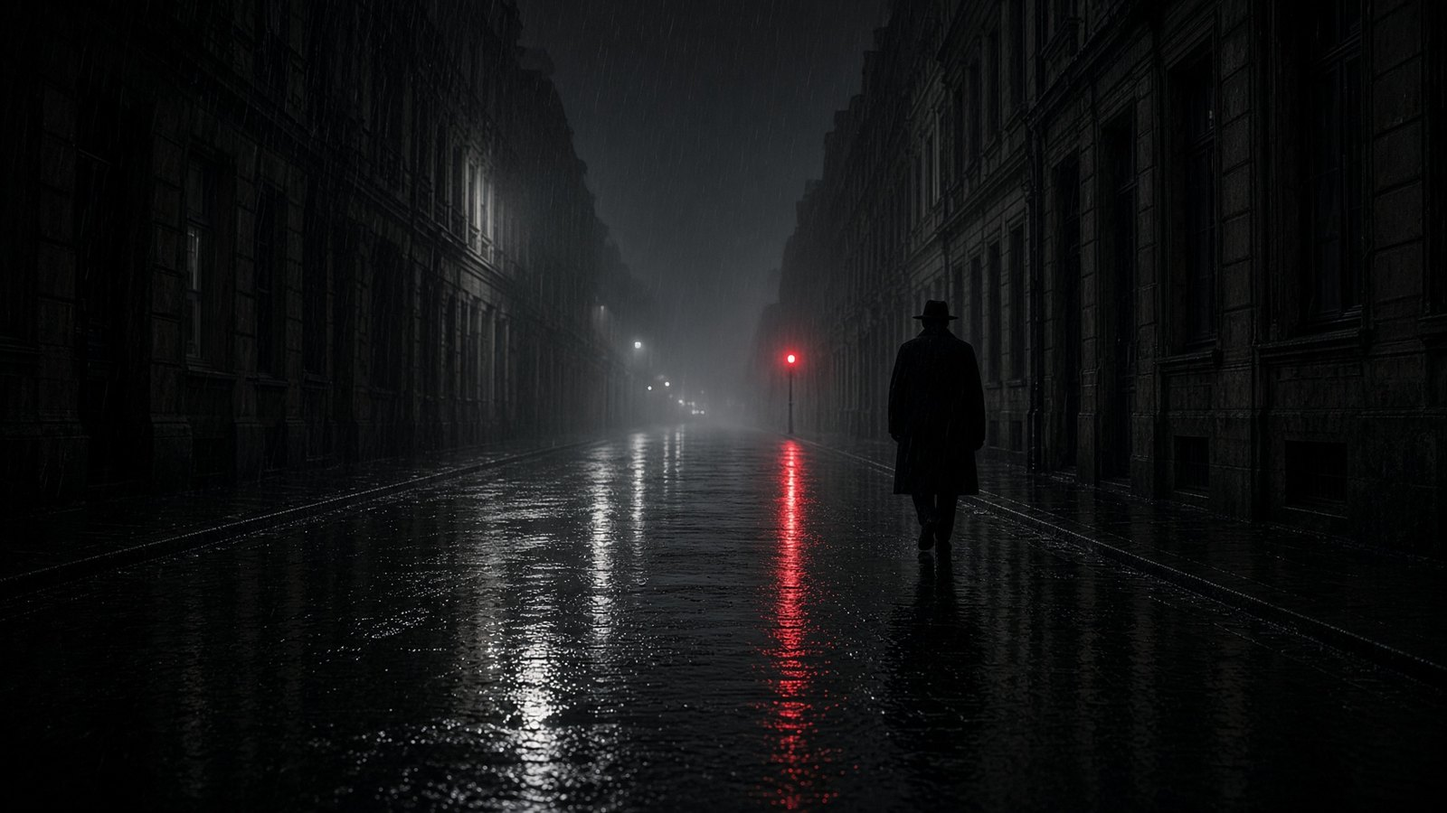
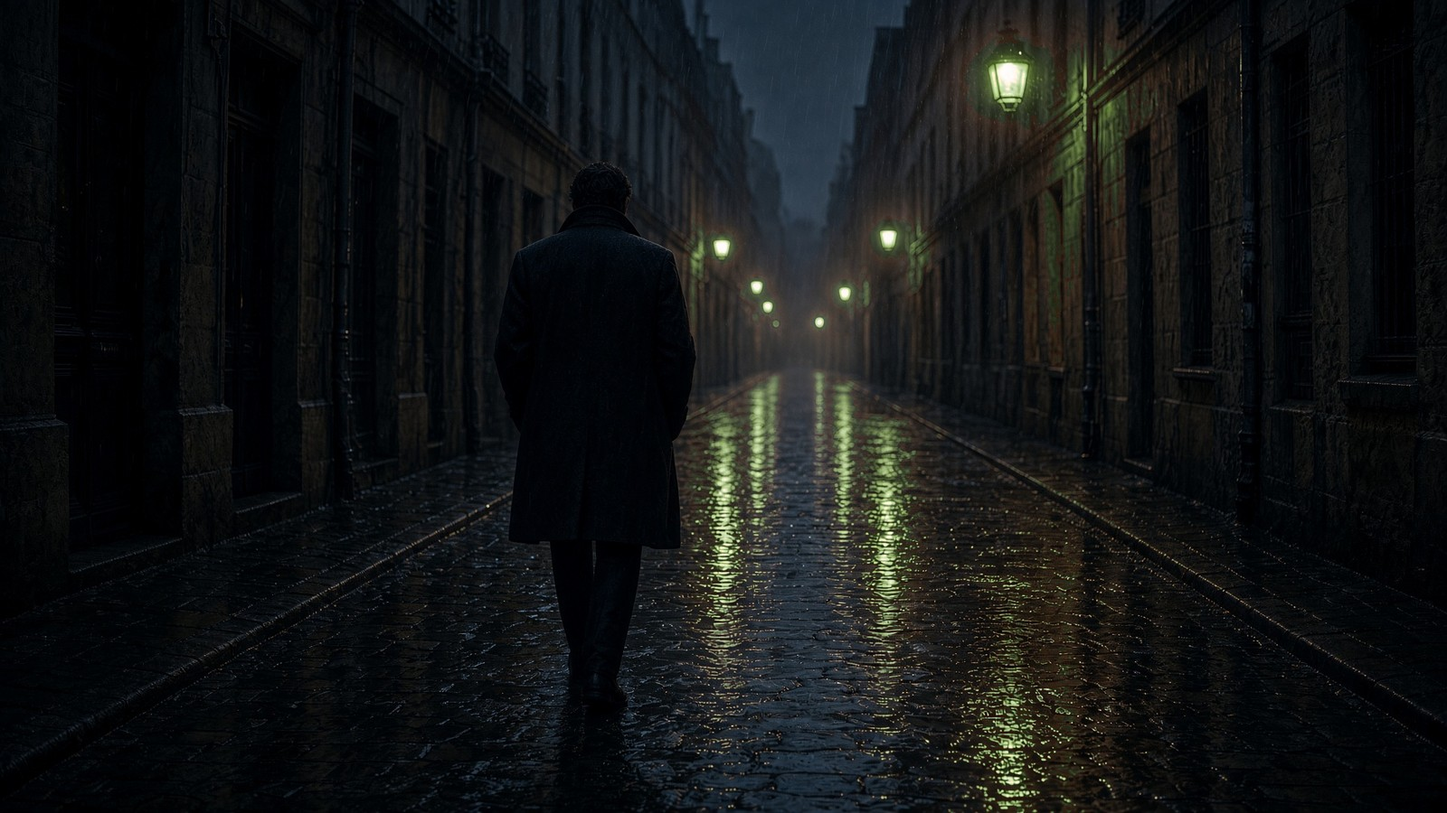
Retire le trait rouge de l'illustration de l'article.

diff --git a/index.html b/index.html
@@ -11,4 +11,4 @@
 .jump-list a:hover,.jump-list a:focus{background:rgba(227,6,19,.1);border-left-color:#e30613;outline:none}
 .jump-k{font-size:.68rem;letter-spacing:.2em;text-transform:uppercase;color:#9a938a}
 .jump-t{font-family:"Barlow Condensed",sans-serif;font-weight:600;font-size:1.28rem;letter-spacing:.02em;line-height:1.02;text-transform:uppercase}
-</style></head><body><!--$--><a class="skip" href="#contenu">Aller au contenu</a><header class="nav gutter"><a class="wordmark" href="/" aria-label="Dose Mentale"><img class="brand-mark" src="/logo.png" alt="Dose Mentale" width="56" height="56"/></a><nav class="nav-links" aria-label="Journal"><a href="/">Journal</a><a href="/gabriel-constant/">L’auteur</a><a href="/livre/">Le livre</a></nav><a class="btn nav-buy" href="https://ebook.dosementale.fr/">Le Secret des Sigma</a></header><main id="contenu"><script type="application/ld+json">{"@context":"https://schema.org","@type":"Blog","name":"Dose Mentale","image":"https://journal.dosementale.fr/logo.png","description":"Journal de Gabriel Constant. Des textes sur la pièce, le masque et la ligne, en marge du Secret des Sigma.","url":"https://journal.dosementale.fr/","inLanguage":"fr-FR","author":{"@type":"Person","name":"Gabriel Constant"},"blogPost":[{"@type":"BlogPosting","headline":"Alpha, bêta, sigma : le classement qui vous sert","url":"https://journal.dosementale.fr/alpha-beta-sigma/","datePublished":"2026-10-28","dateModified":"2026-10-28"},{"@type":"BlogPosting","headline":"Personnalité sigma : le mot qui vous range","url":"https://journal.dosementale.fr/personnalite-sigma/","datePublished":"2026-10-24","dateModified":"2026-10-24"},{"@type":"BlogPosting","headline":"L’homme sigma n’est pas un rôle","url":"https://journal.dosementale.fr/l-homme-sigma-nest-pas-un-role/","datePublished":"2026-10-19","dateModified":"2026-10-19"},{"@type":"BlogPosting","headline":"La phrase dite pour ne pas perdre la place","url":"https://journal.dosementale.fr/la-phrase-dite-pour-ne-pas-perdre-la-place/","datePublished":"2026-10-19","dateModified":"2026-10-19"},{"@type":"BlogPosting","headline":"Quand la pièce se remplit, que faites-vous de votre silence ?","url":"https://journal.dosementale.fr/la-piece-pleine/","datePublished":"2026-09-12","dateModified":"2026-10-18"},{"@type":"BlogPosting","headline":"Ne pas ressembler à celui qui ment","url":"https://journal.dosementale.fr/ne-pas-lui-ressembler/","datePublished":"2026-09-20","dateModified":"2026-10-18"},{"@type":"BlogPosting","headline":"Sentir sans vous laisser corrompre","url":"https://journal.dosementale.fr/emotion-sans-corruption/","datePublished":"2026-09-28","dateModified":"2026-10-18"},{"@type":"BlogPosting","headline":"La victoire qui n’écrase pas","url":"https://journal.dosementale.fr/la-victoire-qui-n-ecrase-pas/","datePublished":"2026-10-04","dateModified":"2026-10-18"},{"@type":"BlogPosting","headline":"Rester quand la salle se vide","url":"https://journal.dosementale.fr/rester-dans-la-piece/","datePublished":"2026-10-16","dateModified":"2026-10-18"}]}</script><section class="band gutter" style="padding-top:2.2rem"><p class="kicker">Dose Mentale</p><h1 class="display journal-display">Le journal.<br/>Pas un rôle.</h1><p class="lede" style="margin-top:1rem">Des textes de Gabriel Constant. La pièce, le masque, la ligne. Pour lire avant le livre, ou à côté.</p></section><section class="band gutter" aria-label="Filtrer les articles"><div class="jump"><p class="kicker" id="aller-label">Les textes</p><div class="jump-box"><button type="button" class="jump-btn" id="aller" aria-haspopup="listbox" aria-expanded="false" aria-labelledby="aller-label"><span>Choisir un article</span><i aria-hidden="true"></i></button><ul class="jump-list" id="aller-list" role="listbox" hidden><li><a role="option" href="/alpha-beta-sigma/"><span class="jump-k">Le masque</span><span class="jump-t">Alpha, bêta, sigma : le classement qui vous sert</span></a></li><li><a role="option" href="/personnalite-sigma/"><span class="jump-k">Le masque</span><span class="jump-t">Personnalité sigma : le mot qui vous range</span></a></li><li><a role="option" href="/l-homme-sigma-nest-pas-un-role/"><span class="jump-k">Le masque</span><span class="jump-t">L’homme sigma n’est pas un rôle</span></a></li><li><a role="option" href="/la-phrase-dite-pour-ne-pas-perdre-la-place/"><span class="jump-k">Le masque</span><span class="jump-t">La phrase dite pour ne pas perdre la place</span></a></li><li><a role="option" href="/la-piece-pleine/"><span class="jump-k">La pièce</span><span class="jump-t">Quand la pièce se remplit, que faites-vous de votre silence ?</span></a></li><li><a role="option" href="/ne-pas-lui-ressembler/"><span class="jump-k">Le masque</span><span class="jump-t">Ne pas ressembler à celui qui ment</span></a></li><li><a role="option" href="/emotion-sans-corruption/"><span class="jump-k">La ligne</span><span class="jump-t">Sentir sans vous laisser corrompre</span></a></li><li><a role="option" href="/la-victoire-qui-n-ecrase-pas/"><span class="jump-k">La ligne</span><span class="jump-t">La victoire qui n’écrase pas</span></a></li><li><a role="option" href="/rester-dans-la-piece/"><span class="jump-k">La pièce</span><span class="jump-t">Rester quand la salle se vide</span></a></li></ul></div></div><form class="finder" role="search"><label class="kicker" for="q">Chercher</label><input id="q" class="finder-input" type="search" placeholder="Pièce, masque, silence…" autoComplete="off" value=""/><div class="finder-themes" role="group" aria-label="Thème"><button type="button" class="chip chip-on" data-theme="Tous" aria-pressed="true">Tous</button><button type="button" class="chip" data-theme="La pièce" aria-pressed="false">La pièce</button><button type="button" class="chip" data-theme="Le masque" aria-pressed="false">Le masque</button><button type="button" class="chip" data-theme="La ligne" aria-pressed="false">La ligne</button></div></form><p class="muted" id="journal-count" style="margin-top:0.8rem">9 textes</p><div class="journal-list"><article class="card" data-theme="Le masque"><a class="card-link" href="/alpha-beta-sigma/"><img src="/articles/alpha-beta-sigma.jpg?v=2" alt="Un homme seul sous la pluie, de nuit, dans une rue déserte." width="1600" height="900"/><p class="kicker">Le masque<span class="card-dot" aria-hidden="true"> · </span>7 min</p><h2>Alpha, bêta, sigma : le classement qui vous sert</h2><p>Le classement vous range avant de vous décrire. Il circule parce qu’il est simple.</p><time dateTime="2026-10-28">28 octobre 2026</time></a></article><article class="card" data-theme="Le masque"><a class="card-link" href="/personnalite-sigma/"><img src="/articles/personnalite-sigma.jpg" alt="Un homme immobile dans une rue sous la pluie, pendant que d’autres passent." width="1600" height="900"/><p class="kicker">Le masque<span class="card-dot" aria-hidden="true"> · </span>6 min</p><h2>Personnalité sigma : le mot qui vous range</h2><p>Vous cherchez une personnalité sigma. Le mot vous range avant de vous décrire.</p><time dateTime="2026-10-24">24 octobre 2026</time></a></article><article class="card" data-theme="Le masque"><a class="card-link" href="/l-homme-sigma-nest-pas-un-role/"><img src="/sales/mirror.svg" alt="" width="640" height="360"/><p class="kicker">Le masque<span class="card-dot" aria-hidden="true"> · </span>3 min</p><h2>L’homme sigma n’est pas un rôle</h2><p>On vous tend le mot sigma pour que vous soyez lisible. Ce texte dit ce que le mot vous fait prendre, avant le livre.</p><time dateTime="2026-10-19">19 octobre 2026</time></a></article><article class="card" data-theme="Le masque"><a class="card-link" href="/la-phrase-dite-pour-ne-pas-perdre-la-place/"><img src="/sales/alley.svg" alt="" width="640" height="360"/><p class="kicker">Le masque<span class="card-dot" aria-hidden="true"> · </span>2 min</p><h2>La phrase dite pour ne pas perdre la place</h2><p>Vous avez déjà répondu avant la fin de la question. La phrase est polie, utile, et souvent pas la vôtre.</p><time dateTime="2026-10-19">19 octobre 2026</time></a></article><article class="card" data-theme="La pièce"><a class="card-link" href="/la-piece-pleine/"><img src="/sales/street.svg" alt="" width="640" height="360"/><p class="kicker">La pièce<span class="card-dot" aria-hidden="true"> <!-- -->·<!-- --> </span>2<!-- --> min</p><h2>Quand la pièce se remplit, que faites-vous de votre silence ?</h2><p>Dans une pièce pleine, le silence n’est pas une absence. Disparaître pour ne pas être vu n’est pas la même chose que choisir de ne pas jouer.</p><time dateTime="2026-09-12">12 septembre 2026</time></a></article><article class="card" data-theme="Le masque"><a class="card-link" href="/ne-pas-lui-ressembler/"><img src="/sales/mirror.svg" alt="" width="640" height="360"/><p class="kicker">Le masque<span class="card-dot" aria-hidden="true"> <!-- -->·<!-- --> </span>2<!-- --> min</p><h2>Ne pas ressembler à celui qui ment</h2><p>La salle n’a pas besoin que vous soyez vrai. Elle a besoin que vous soyez lisible. Refuser ce prix, c’est refuser de ressembler au menteur.</p><time dateTime="2026-09-20">20 septembre 2026</time></a></article><article class="card" data-theme="La ligne"><a class="card-link" href="/emotion-sans-corruption/"><img src="/sales/rain.svg" alt="" width="640" height="360"/><p class="kicker">La ligne<span class="card-dot" aria-hidden="true"> <!-- -->·<!-- --> </span>2<!-- --> min</p><h2>Sentir sans vous laisser corrompre</h2><p>L’émotion n’est pas une faiblesse à tuer. Ce qui corrompt, c’est d’en faire une arme, un spectacle, ou une excuse pour quitter votre ligne.</p><time dateTime="2026-09-28">28 septembre 2026</time></a></article><article class="card" data-theme="La ligne"><a class="card-link" href="/la-victoire-qui-n-ecrase-pas/"><img src="/sales/alley.svg" alt="" width="640" height="360"/><p class="kicker">La ligne<span class="card-dot" aria-hidden="true"> <!-- -->·<!-- --> </span>2<!-- --> min</p><h2>La victoire qui n’écrase pas</h2><p>Écraser l’autre n’est pas gagner. Gabriel Constant distingue la victoire qui vous laisse intact de celle qui vous fait ressembler à ce que vous combattiez.</p><time dateTime="2026-10-04">4 octobre 2026</time></a></article><article class="card" data-theme="La pièce"><a class="card-link" href="/rester-dans-la-piece/"><img src="/sales/cover.svg" alt="" width="640" height="360"/><p class="kicker">La pièce<span class="card-dot" aria-hidden="true"> <!-- -->·<!-- --> </span>2<!-- --> min</p><h2>Rester quand la salle se vide</h2><p>Quand les rôles tombent et que la salle se vide, il reste une question simple : est-ce que vous êtes encore là, sans public.</p><time dateTime="2026-10-16">16 octobre 2026</time></a></article></div><p class="lede" id="journal-empty" hidden>Rien sous ce mot. Essayez un thème, ou laissez le champ vide.</p></section><hr class="rule"/><section class="band gutter"><aside class="journal-note"><p class="kicker">Le livre</p><h2 class="section-title journal-note-title">Le Secret des Sigma</h2><p class="lede">Pas une méthode pour tenir la salle. Une ligne pour ne pas vous perdre dedans. 19,99 € au lieu de 69,99 €.</p><div class="hero-actions"><a class="btn" href="https://www.dosementale.fr/ebook">Recevoir l’extrait</a><a class="btn btn-ghost" href="/livre/">Voir le livre</a><a class="btn btn-ghost" href="https://ebook.dosementale.fr/">Obtenir</a></div></aside></section></main><footer class="foot gutter"><hr class="rule"/><p class="kicker" style="margin-top:1.2rem">Dose Mentale</p><p class="muted">Journal de Gabriel Constant. Le Secret des Sigma se commande à part, sur Systeme.io.</p><p class="muted"><a href="/gabriel-constant/">Gabriel Constant</a> · <a href="/livre/">La page du livre</a> · <a href="https://www.dosementale.fr/ebook">L’extrait</a> · <a href="https://ebook.dosementale.fr/">Le Secret des Sigma</a></p><p class="muted socials"><a href="https://www.tiktok.com/@dose.mentale" rel="me noopener noreferrer" target="_blank">TikTok</a> · <a href="https://www.instagram.com/dosementale/" rel="me noopener noreferrer" target="_blank">Instagram</a> · <a href="https://www.youtube.com/@dosementalefr" rel="me noopener noreferrer" target="_blank">YouTube</a> · <a href="https://www.youtube.com/@%C3%89quilibreSto%C3%AFc" rel="me noopener noreferrer" target="_blank">Équilibre Stoïc</a> · <a href="https://www.facebook.com/dosementale" rel="me noopener noreferrer" target="_blank">Facebook</a></p></footer><!--/$--><script>(function(){var q=document.getElementById("q");var chips=[].slice.call(document.querySelectorAll(".finder-themes .chip"));var cards=[].slice.call(document.querySelectorAll(".journal-list .card"));var count=document.getElementById("journal-count");var empty=document.getElementById("journal-empty");var theme="Tous";function apply(){var s=(q&&q.value||"").trim().toLowerCase();var n=0;cards.forEach(function(card){var t=card.getAttribute("data-theme")||"";var text=(card.innerText||"").toLowerCase();var ok=(theme==="Tous"||t===theme)&&(!s||text.indexOf(s)!==-1);card.hidden=!ok;if(ok)n++;});if(count)count.textContent=n+" texte"+(n>1?"s":"");if(empty)empty.hidden=n!==0;chips.forEach(function(b){var on=b.getAttribute("data-theme")===theme;b.className=on?"chip chip-on":"chip";b.setAttribute("aria-pressed",on?"true":"false");});}chips.forEach(function(b){b.addEventListener("click",function(){theme=b.getAttribute("data-theme");apply();});});if(q)q.addEventListener("input",apply);var aller=document.getElementById("aller");var box=aller&&aller.parentNode;var list=document.getElementById("aller-list");function shut(){if(!box)return;box.classList.remove("is-open");aller.setAttribute("aria-expanded","false");list.hidden=true;}if(aller)aller.addEventListener("click",function(){var open=list.hidden;if(open){box.classList.add("is-open");aller.setAttribute("aria-expanded","true");list.hidden=false;}else shut();});document.addEventListener("click",function(e){if(box&&!box.contains(e.target))shut();});document.addEventListener("keydown",function(e){if(e.key==="Escape")shut();});var form=q&&q.form;if(form)form.addEventListener("submit",function(e){e.preventDefault();});apply();})();</script><script src="/assets/social.js" defer></script><script src="/assets/journal-fx.js" defer></script></body></html>
+</style></head><body><!--$--><a class="skip" href="#contenu">Aller au contenu</a><header class="nav gutter"><a class="wordmark" href="/" aria-label="Dose Mentale"><img class="brand-mark" src="/logo.png" alt="Dose Mentale" width="56" height="56"/></a><nav class="nav-links" aria-label="Journal"><a href="/">Journal</a><a href="/gabriel-constant/">L’auteur</a><a href="/livre/">Le livre</a></nav><a class="btn nav-buy" href="https://ebook.dosementale.fr/">Le Secret des Sigma</a></header><main id="contenu"><script type="application/ld+json">{"@context":"https://schema.org","@type":"Blog","name":"Dose Mentale","image":"https://journal.dosementale.fr/logo.png","description":"Journal de Gabriel Constant. Des textes sur la pièce, le masque et la ligne, en marge du Secret des Sigma.","url":"https://journal.dosementale.fr/","inLanguage":"fr-FR","author":{"@type":"Person","name":"Gabriel Constant"},"blogPost":[{"@type":"BlogPosting","headline":"Alpha, bêta, sigma : le classement qui vous sert","url":"https://journal.dosementale.fr/alpha-beta-sigma/","datePublished":"2026-10-28","dateModified":"2026-10-28"},{"@type":"BlogPosting","headline":"Personnalité sigma : le mot qui vous range","url":"https://journal.dosementale.fr/personnalite-sigma/","datePublished":"2026-10-24","dateModified":"2026-10-24"},{"@type":"BlogPosting","headline":"L’homme sigma n’est pas un rôle","url":"https://journal.dosementale.fr/l-homme-sigma-nest-pas-un-role/","datePublished":"2026-10-19","dateModified":"2026-10-19"},{"@type":"BlogPosting","headline":"La phrase dite pour ne pas perdre la place","url":"https://journal.dosementale.fr/la-phrase-dite-pour-ne-pas-perdre-la-place/","datePublished":"2026-10-19","dateModified":"2026-10-19"},{"@type":"BlogPosting","headline":"Quand la pièce se remplit, que faites-vous de votre silence ?","url":"https://journal.dosementale.fr/la-piece-pleine/","datePublished":"2026-09-12","dateModified":"2026-10-18"},{"@type":"BlogPosting","headline":"Ne pas ressembler à celui qui ment","url":"https://journal.dosementale.fr/ne-pas-lui-ressembler/","datePublished":"2026-09-20","dateModified":"2026-10-18"},{"@type":"BlogPosting","headline":"Sentir sans vous laisser corrompre","url":"https://journal.dosementale.fr/emotion-sans-corruption/","datePublished":"2026-09-28","dateModified":"2026-10-18"},{"@type":"BlogPosting","headline":"La victoire qui n’écrase pas","url":"https://journal.dosementale.fr/la-victoire-qui-n-ecrase-pas/","datePublished":"2026-10-04","dateModified":"2026-10-18"},{"@type":"BlogPosting","headline":"Rester quand la salle se vide","url":"https://journal.dosementale.fr/rester-dans-la-piece/","datePublished":"2026-10-16","dateModified":"2026-10-18"}]}</script><section class="band gutter" style="padding-top:2.2rem"><p class="kicker">Dose Mentale</p><h1 class="display journal-display">Le journal.<br/>Pas un rôle.</h1><p class="lede" style="margin-top:1rem">Des textes de Gabriel Constant. La pièce, le masque, la ligne. Pour lire avant le livre, ou à côté.</p></section><section class="band gutter" aria-label="Filtrer les articles"><div class="jump"><p class="kicker" id="aller-label">Les textes</p><div class="jump-box"><button type="button" class="jump-btn" id="aller" aria-haspopup="listbox" aria-expanded="false" aria-labelledby="aller-label"><span>Choisir un article</span><i aria-hidden="true"></i></button><ul class="jump-list" id="aller-list" role="listbox" hidden><li><a role="option" href="/alpha-beta-sigma/"><span class="jump-k">Le masque</span><span class="jump-t">Alpha, bêta, sigma : le classement qui vous sert</span></a></li><li><a role="option" href="/personnalite-sigma/"><span class="jump-k">Le masque</span><span class="jump-t">Personnalité sigma : le mot qui vous range</span></a></li><li><a role="option" href="/l-homme-sigma-nest-pas-un-role/"><span class="jump-k">Le masque</span><span class="jump-t">L’homme sigma n’est pas un rôle</span></a></li><li><a role="option" href="/la-phrase-dite-pour-ne-pas-perdre-la-place/"><span class="jump-k">Le masque</span><span class="jump-t">La phrase dite pour ne pas perdre la place</span></a></li><li><a role="option" href="/la-piece-pleine/"><span class="jump-k">La pièce</span><span class="jump-t">Quand la pièce se remplit, que faites-vous de votre silence ?</span></a></li><li><a role="option" href="/ne-pas-lui-ressembler/"><span class="jump-k">Le masque</span><span class="jump-t">Ne pas ressembler à celui qui ment</span></a></li><li><a role="option" href="/emotion-sans-corruption/"><span class="jump-k">La ligne</span><span class="jump-t">Sentir sans vous laisser corrompre</span></a></li><li><a role="option" href="/la-victoire-qui-n-ecrase-pas/"><span class="jump-k">La ligne</span><span class="jump-t">La victoire qui n’écrase pas</span></a></li><li><a role="option" href="/rester-dans-la-piece/"><span class="jump-k">La pièce</span><span class="jump-t">Rester quand la salle se vide</span></a></li></ul></div></div><form class="finder" role="search"><label class="kicker" for="q">Chercher</label><input id="q" class="finder-input" type="search" placeholder="Pièce, masque, silence…" autoComplete="off" value=""/><div class="finder-themes" role="group" aria-label="Thème"><button type="button" class="chip chip-on" data-theme="Tous" aria-pressed="true">Tous</button><button type="button" class="chip" data-theme="La pièce" aria-pressed="false">La pièce</button><button type="button" class="chip" data-theme="Le masque" aria-pressed="false">Le masque</button><button type="button" class="chip" data-theme="La ligne" aria-pressed="false">La ligne</button></div></form><p class="muted" id="journal-count" style="margin-top:0.8rem">9 textes</p><div class="journal-list"><article class="card" data-theme="Le masque"><a class="card-link" href="/alpha-beta-sigma/"><img src="/articles/alpha-beta-sigma.jpg?v=3" alt="Un homme seul sous la pluie, de nuit, dans une rue déserte." width="1600" height="900"/><p class="kicker">Le masque<span class="card-dot" aria-hidden="true"> · </span>7 min</p><h2>Alpha, bêta, sigma : le classement qui vous sert</h2><p>Le classement vous range avant de vous décrire. Il circule parce qu’il est simple.</p><time dateTime="2026-10-28">28 octobre 2026</time></a></article><article class="card" data-theme="Le masque"><a class="card-link" href="/personnalite-sigma/"><img src="/articles/personnalite-sigma.jpg" alt="Un homme immobile dans une rue sous la pluie, pendant que d’autres passent." width="1600" height="900"/><p class="kicker">Le masque<span class="card-dot" aria-hidden="true"> · </span>6 min</p><h2>Personnalité sigma : le mot qui vous range</h2><p>Vous cherchez une personnalité sigma. Le mot vous range avant de vous décrire.</p><time dateTime="2026-10-24">24 octobre 2026</time></a></article><article class="card" data-theme="Le masque"><a class="card-link" href="/l-homme-sigma-nest-pas-un-role/"><img src="/sales/mirror.svg" alt="" width="640" height="360"/><p class="kicker">Le masque<span class="card-dot" aria-hidden="true"> · </span>3 min</p><h2>L’homme sigma n’est pas un rôle</h2><p>On vous tend le mot sigma pour que vous soyez lisible. Ce texte dit ce que le mot vous fait prendre, avant le livre.</p><time dateTime="2026-10-19">19 octobre 2026</time></a></article><article class="card" data-theme="Le masque"><a class="card-link" href="/la-phrase-dite-pour-ne-pas-perdre-la-place/"><img src="/sales/alley.svg" alt="" width="640" height="360"/><p class="kicker">Le masque<span class="card-dot" aria-hidden="true"> · </span>2 min</p><h2>La phrase dite pour ne pas perdre la place</h2><p>Vous avez déjà répondu avant la fin de la question. La phrase est polie, utile, et souvent pas la vôtre.</p><time dateTime="2026-10-19">19 octobre 2026</time></a></article><article class="card" data-theme="La pièce"><a class="card-link" href="/la-piece-pleine/"><img src="/sales/street.svg" alt="" width="640" height="360"/><p class="kicker">La pièce<span class="card-dot" aria-hidden="true"> <!-- -->·<!-- --> </span>2<!-- --> min</p><h2>Quand la pièce se remplit, que faites-vous de votre silence ?</h2><p>Dans une pièce pleine, le silence n’est pas une absence. Disparaître pour ne pas être vu n’est pas la même chose que choisir de ne pas jouer.</p><time dateTime="2026-09-12">12 septembre 2026</time></a></article><article class="card" data-theme="Le masque"><a class="card-link" href="/ne-pas-lui-ressembler/"><img src="/sales/mirror.svg" alt="" width="640" height="360"/><p class="kicker">Le masque<span class="card-dot" aria-hidden="true"> <!-- -->·<!-- --> </span>2<!-- --> min</p><h2>Ne pas ressembler à celui qui ment</h2><p>La salle n’a pas besoin que vous soyez vrai. Elle a besoin que vous soyez lisible. Refuser ce prix, c’est refuser de ressembler au menteur.</p><time dateTime="2026-09-20">20 septembre 2026</time></a></article><article class="card" data-theme="La ligne"><a class="card-link" href="/emotion-sans-corruption/"><img src="/sales/rain.svg" alt="" width="640" height="360"/><p class="kicker">La ligne<span class="card-dot" aria-hidden="true"> <!-- -->·<!-- --> </span>2<!-- --> min</p><h2>Sentir sans vous laisser corrompre</h2><p>L’émotion n’est pas une faiblesse à tuer. Ce qui corrompt, c’est d’en faire une arme, un spectacle, ou une excuse pour quitter votre ligne.</p><time dateTime="2026-09-28">28 septembre 2026</time></a></article><article class="card" data-theme="La ligne"><a class="card-link" href="/la-victoire-qui-n-ecrase-pas/"><img src="/sales/alley.svg" alt="" width="640" height="360"/><p class="kicker">La ligne<span class="card-dot" aria-hidden="true"> <!-- -->·<!-- --> </span>2<!-- --> min</p><h2>La victoire qui n’écrase pas</h2><p>Écraser l’autre n’est pas gagner. Gabriel Constant distingue la victoire qui vous laisse intact de celle qui vous fait ressembler à ce que vous combattiez.</p><time dateTime="2026-10-04">4 octobre 2026</time></a></article><article class="card" data-theme="La pièce"><a class="card-link" href="/rester-dans-la-piece/"><img src="/sales/cover.svg" alt="" width="640" height="360"/><p class="kicker">La pièce<span class="card-dot" aria-hidden="true"> <!-- -->·<!-- --> </span>2<!-- --> min</p><h2>Rester quand la salle se vide</h2><p>Quand les rôles tombent et que la salle se vide, il reste une question simple : est-ce que vous êtes encore là, sans public.</p><time dateTime="2026-10-16">16 octobre 2026</time></a></article></div><p class="lede" id="journal-empty" hidden>Rien sous ce mot. Essayez un thème, ou laissez le champ vide.</p></section><hr class="rule"/><section class="band gutter"><aside class="journal-note"><p class="kicker">Le livre</p><h2 class="section-title journal-note-title">Le Secret des Sigma</h2><p class="lede">Pas une méthode pour tenir la salle. Une ligne pour ne pas vous perdre dedans. 19,99 € au lieu de 69,99 €.</p><div class="hero-actions"><a class="btn" href="https://www.dosementale.fr/ebook">Recevoir l’extrait</a><a class="btn btn-ghost" href="/livre/">Voir le livre</a><a class="btn btn-ghost" href="https://ebook.dosementale.fr/">Obtenir</a></div></aside></section></main><footer class="foot gutter"><hr class="rule"/><p class="kicker" style="margin-top:1.2rem">Dose Mentale</p><p class="muted">Journal de Gabriel Constant. Le Secret des Sigma se commande à part, sur Systeme.io.</p><p class="muted"><a href="/gabriel-constant/">Gabriel Constant</a> · <a href="/livre/">La page du livre</a> · <a href="https://www.dosementale.fr/ebook">L’extrait</a> · <a href="https://ebook.dosementale.fr/">Le Secret des Sigma</a></p><p class="muted socials"><a href="https://www.tiktok.com/@dose.mentale" rel="me noopener noreferrer" target="_blank">TikTok</a> · <a href="https://www.instagram.com/dosementale/" rel="me noopener noreferrer" target="_blank">Instagram</a> · <a href="https://www.youtube.com/@dosementalefr" rel="me noopener noreferrer" target="_blank">YouTube</a> · <a href="https://www.youtube.com/@%C3%89quilibreSto%C3%AFc" rel="me noopener noreferrer" target="_blank">Équilibre Stoïc</a> · <a href="https://www.facebook.com/dosementale" rel="me noopener noreferrer" target="_blank">Facebook</a></p></footer><!--/$--><script>(function(){var q=document.getElementById("q");var chips=[].slice.call(document.querySelectorAll(".finder-themes .chip"));var cards=[].slice.call(document.querySelectorAll(".journal-list .card"));var count=document.getElementById("journal-count");var empty=document.getElementById("journal-empty");var theme="Tous";function apply(){var s=(q&&q.value||"").trim().toLowerCase();var n=0;cards.forEach(function(card){var t=card.getAttribute("data-theme")||"";var text=(card.innerText||"").toLowerCase();var ok=(theme==="Tous"||t===theme)&&(!s||text.indexOf(s)!==-1);card.hidden=!ok;if(ok)n++;});if(count)count.textContent=n+" texte"+(n>1?"s":"");if(empty)empty.hidden=n!==0;chips.forEach(function(b){var on=b.getAttribute("data-theme")===theme;b.className=on?"chip chip-on":"chip";b.setAttribute("aria-pressed",on?"true":"false");});}chips.forEach(function(b){b.addEventListener("click",function(){theme=b.getAttribute("data-theme");apply();});});if(q)q.addEventListener("input",apply);var aller=document.getElementById("aller");var box=aller&&aller.parentNode;var list=document.getElementById("aller-list");function shut(){if(!box)return;box.classList.remove("is-open");aller.setAttribute("aria-expanded","false");list.hidden=true;}if(aller)aller.addEventListener("click",function(){var open=list.hidden;if(open){box.classList.add("is-open");aller.setAttribute("aria-expanded","true");list.hidden=false;}else shut();});document.addEventListener("click",function(e){if(box&&!box.contains(e.target))shut();});document.addEventListener("keydown",function(e){if(e.key==="Escape")shut();});var form=q&&q.form;if(form)form.addEventListener("submit",function(e){e.preventDefault();});apply();})();</script><script src="/assets/social.js" defer></script><script src="/assets/journal-fx.js" defer></script></body></html>

diff --git a/alpha-beta-sigma/index.html b/alpha-beta-sigma/index.html
@@ -1,4 +1,4 @@
-<!DOCTYPE html><html lang="fr" class="antialiased"><head><meta charset="utf-8"/><meta name="viewport" content="width=device-width, initial-scale=1"/><title>Alpha, bêta, sigma : le classement qui vous sert</title><meta name="description" content="Alpha bêta sigma : le classement qui vous range avant de vous décrire. Ce que le trio vous prend, et pourquoi il circule."/><meta name="author" content="Gabriel Constant"/><meta name="theme-color" content="#070708"/><link rel="canonical" href="https://journal.dosementale.fr/alpha-beta-sigma/"/><meta property="og:title" content="Alpha, bêta, sigma : le classement qui vous sert"/><meta property="og:description" content="Alpha bêta sigma : le classement qui vous range avant de vous décrire. Ce que le trio vous prend, et pourquoi il circule."/><meta property="og:type" content="article"/><meta property="og:url" content="https://journal.dosementale.fr/alpha-beta-sigma/"/><meta property="og:image" content="https://journal.dosementale.fr/articles/alpha-beta-sigma.jpg"/><meta property="og:image:width" content="1600"/><meta property="og:image:height" content="900"/><meta property="article:published_time" content="2026-10-28"/><meta name="twitter:card" content="summary_large_image"/><link rel="icon" href="/favicon.ico" sizes="48x48"/><link rel="icon" href="/icon-192.png" type="image/png" sizes="192x192"/><link rel="apple-touch-icon" href="/apple-touch-icon.png"/><link rel="stylesheet" href="/assets/styles-BiFqXIh2.css"/><link rel="preconnect" href="https://fonts.googleapis.com"/><link rel="preconnect" href="https://fonts.gstatic.com" crossorigin/><link rel="stylesheet" href="https://fonts.googleapis.com/css2?family=Barlow+Condensed:wght@600;700&family=Source+Sans+3:ital,wght@0,400;0,500;0,600;1,400&display=swap"/><script type="application/ld+json">{"@context":"https://schema.org","@type":"BlogPosting","headline":"Alpha, bêta, sigma : le classement qui vous sert","description":"Alpha bêta sigma : le classement qui vous range avant de vous décrire. Ce que le trio vous prend, et pourquoi il circule.","datePublished":"2026-10-28","dateModified":"2026-10-28","inLanguage":"fr-FR","mainEntityOfPage":"https://journal.dosementale.fr/alpha-beta-sigma/","image":{"@type":"ImageObject","url":"https://journal.dosementale.fr/articles/alpha-beta-sigma.jpg","width":1600,"height":900},"author":{"@type":"Person","name":"Gabriel Constant","url":"https://journal.dosementale.fr/gabriel-constant/"},"publisher":{"@type":"Organization","name":"Dose Mentale","url":"https://journal.dosementale.fr","logo":{"@type":"ImageObject","url":"https://journal.dosementale.fr/logo.png","width":512,"height":512}},"keywords":"alpha bêta sigma"}</script><script type="application/ld+json">{"@context":"https://schema.org","@type":"FAQPage","mainEntity":[{"@type":"Question","name":"Le classement alpha bêta sigma a-t-il un fondement ?","acceptedAnswer":{"@type":"Answer","text":"Comme récit qui circule, oui. Comme mesure de ce que vous êtes, non. Personne ne vous a observé assez longtemps pour vous placer dans une case."}},{"@type":"Question","name":"Faut-il choisir une case ?","acceptedAnswer":{"@type":"Answer","text":"Non. Le classement vous sert tant que vous le laissez décider à votre place. Le jour où vous refusez de jouer le rôle qu’il vous tend, il ne vous sert plus."}},{"@type":"Question","name":"Par où continuer ?","acceptedAnswer":{"@type":"Answer","text":"Par l’article sur la personnalité sigma, si le mot vous tient encore. Puis par l’extrait du livre, avant de décider si la ligne est la vôtre."}}]}</script><script type="application/ld+json">{"@context":"https://schema.org","@type":"BreadcrumbList","itemListElement":[{"@type":"ListItem","position":1,"name":"Journal","item":"https://journal.dosementale.fr/"},{"@type":"ListItem","position":2,"name":"Alpha, bêta, sigma : le classement qui vous sert","item":"https://journal.dosementale.fr/alpha-beta-sigma/"}]}</script></head><body><a class="skip" href="#contenu">Aller au contenu</a><header class="nav gutter"><a class="wordmark" href="/" aria-label="Dose Mentale"><img class="brand-mark" src="/logo.png" alt="Dose Mentale" width="56" height="56"/></a><nav class="nav-links" aria-label="Journal"><a href="/">Journal</a><a href="/gabriel-constant/">L’auteur</a><a href="/livre/">Le livre</a></nav><a class="btn nav-buy" href="https://ebook.dosementale.fr/">Le Secret des Sigma</a></header><main id="contenu"><article class="band gutter article"><nav class="crumbs" aria-label="Fil d’Ariane"><a href="/">Journal</a><span aria-hidden="true"> / </span><span>Le masque</span></nav><p class="kicker">Le masque</p><h1 class="display journal-display">Alpha, bêta, sigma : le classement qui vous sert</h1><p class="byline"><a href="/gabriel-constant/">Gabriel Constant</a> · <time datetime="2026-10-28">28 octobre 2026</time> · <span>7 min de lecture</span></p><img class="article-hero" src="/articles/alpha-beta-sigma.jpg?v=2" alt="Un homme seul sous la pluie, de nuit, dans une rue déserte." width="1600" height="900"/><div class="article-grid"><nav class="toc" aria-label="Sommaire"><p class="kicker">Sommaire</p><ol><li><a href="#quest-ce">Qu’est-ce que le classement alpha bêta sigma ?</a></li><li><a href="#pourquoi-sert">Pourquoi ce classement vous sert-il ?</a></li><li><a href="#ce-qu-il-prend">Ce que le classement vous prend</a></li><li><a href="#place-sigma">La place du sigma dans le trio</a></li><li><a href="#refuser">Et si vous refusiez le classement ?</a></li><li><a href="#fondement">Le classement alpha bêta sigma a-t-il un fondement ?</a></li><li><a href="#choisir">Faut-il choisir une case ?</a></li><li><a href="#continuer">Par où continuer ?</a></li></ol></nav><div class="prose"><p>Vous avez tapé « alpha bêta sigma » parce qu’un classement vous a été tendu. Une vidéo, un test, une conversation qui a fini par vous placer. Le trio promet un ordre. Lisible. Stable. Vous y avez votre place, ou vous n’y en avez pas. Avant même que vous sachiez si cette place vous convient, le classement a déjà fait son travail : il vous a rendu situable.</p>
+<!DOCTYPE html><html lang="fr" class="antialiased"><head><meta charset="utf-8"/><meta name="viewport" content="width=device-width, initial-scale=1"/><title>Alpha, bêta, sigma : le classement qui vous sert</title><meta name="description" content="Alpha bêta sigma : le classement qui vous range avant de vous décrire. Ce que le trio vous prend, et pourquoi il circule."/><meta name="author" content="Gabriel Constant"/><meta name="theme-color" content="#070708"/><link rel="canonical" href="https://journal.dosementale.fr/alpha-beta-sigma/"/><meta property="og:title" content="Alpha, bêta, sigma : le classement qui vous sert"/><meta property="og:description" content="Alpha bêta sigma : le classement qui vous range avant de vous décrire. Ce que le trio vous prend, et pourquoi il circule."/><meta property="og:type" content="article"/><meta property="og:url" content="https://journal.dosementale.fr/alpha-beta-sigma/"/><meta property="og:image" content="https://journal.dosementale.fr/articles/alpha-beta-sigma.jpg"/><meta property="og:image:width" content="1600"/><meta property="og:image:height" content="900"/><meta property="article:published_time" content="2026-10-28"/><meta name="twitter:card" content="summary_large_image"/><link rel="icon" href="/favicon.ico" sizes="48x48"/><link rel="icon" href="/icon-192.png" type="image/png" sizes="192x192"/><link rel="apple-touch-icon" href="/apple-touch-icon.png"/><link rel="stylesheet" href="/assets/styles-BiFqXIh2.css"/><link rel="preconnect" href="https://fonts.googleapis.com"/><link rel="preconnect" href="https://fonts.gstatic.com" crossorigin/><link rel="stylesheet" href="https://fonts.googleapis.com/css2?family=Barlow+Condensed:wght@600;700&family=Source+Sans+3:ital,wght@0,400;0,500;0,600;1,400&display=swap"/><script type="application/ld+json">{"@context":"https://schema.org","@type":"BlogPosting","headline":"Alpha, bêta, sigma : le classement qui vous sert","description":"Alpha bêta sigma : le classement qui vous range avant de vous décrire. Ce que le trio vous prend, et pourquoi il circule.","datePublished":"2026-10-28","dateModified":"2026-10-28","inLanguage":"fr-FR","mainEntityOfPage":"https://journal.dosementale.fr/alpha-beta-sigma/","image":{"@type":"ImageObject","url":"https://journal.dosementale.fr/articles/alpha-beta-sigma.jpg","width":1600,"height":900},"author":{"@type":"Person","name":"Gabriel Constant","url":"https://journal.dosementale.fr/gabriel-constant/"},"publisher":{"@type":"Organization","name":"Dose Mentale","url":"https://journal.dosementale.fr","logo":{"@type":"ImageObject","url":"https://journal.dosementale.fr/logo.png","width":512,"height":512}},"keywords":"alpha bêta sigma"}</script><script type="application/ld+json">{"@context":"https://schema.org","@type":"FAQPage","mainEntity":[{"@type":"Question","name":"Le classement alpha bêta sigma a-t-il un fondement ?","acceptedAnswer":{"@type":"Answer","text":"Comme récit qui circule, oui. Comme mesure de ce que vous êtes, non. Personne ne vous a observé assez longtemps pour vous placer dans une case."}},{"@type":"Question","name":"Faut-il choisir une case ?","acceptedAnswer":{"@type":"Answer","text":"Non. Le classement vous sert tant que vous le laissez décider à votre place. Le jour où vous refusez de jouer le rôle qu’il vous tend, il ne vous sert plus."}},{"@type":"Question","name":"Par où continuer ?","acceptedAnswer":{"@type":"Answer","text":"Par l’article sur la personnalité sigma, si le mot vous tient encore. Puis par l’extrait du livre, avant de décider si la ligne est la vôtre."}}]}</script><script type="application/ld+json">{"@context":"https://schema.org","@type":"BreadcrumbList","itemListElement":[{"@type":"ListItem","position":1,"name":"Journal","item":"https://journal.dosementale.fr/"},{"@type":"ListItem","position":2,"name":"Alpha, bêta, sigma : le classement qui vous sert","item":"https://journal.dosementale.fr/alpha-beta-sigma/"}]}</script></head><body><a class="skip" href="#contenu">Aller au contenu</a><header class="nav gutter"><a class="wordmark" href="/" aria-label="Dose Mentale"><img class="brand-mark" src="/logo.png" alt="Dose Mentale" width="56" height="56"/></a><nav class="nav-links" aria-label="Journal"><a href="/">Journal</a><a href="/gabriel-constant/">L’auteur</a><a href="/livre/">Le livre</a></nav><a class="btn nav-buy" href="https://ebook.dosementale.fr/">Le Secret des Sigma</a></header><main id="contenu"><article class="band gutter article"><nav class="crumbs" aria-label="Fil d’Ariane"><a href="/">Journal</a><span aria-hidden="true"> / </span><span>Le masque</span></nav><p class="kicker">Le masque</p><h1 class="display journal-display">Alpha, bêta, sigma : le classement qui vous sert</h1><p class="byline"><a href="/gabriel-constant/">Gabriel Constant</a> · <time datetime="2026-10-28">28 octobre 2026</time> · <span>7 min de lecture</span></p><img class="article-hero" src="/articles/alpha-beta-sigma.jpg?v=3" alt="Un homme seul sous la pluie, de nuit, dans une rue déserte." width="1600" height="900"/><div class="article-grid"><nav class="toc" aria-label="Sommaire"><p class="kicker">Sommaire</p><ol><li><a href="#quest-ce">Qu’est-ce que le classement alpha bêta sigma ?</a></li><li><a href="#pourquoi-sert">Pourquoi ce classement vous sert-il ?</a></li><li><a href="#ce-qu-il-prend">Ce que le classement vous prend</a></li><li><a href="#place-sigma">La place du sigma dans le trio</a></li><li><a href="#refuser">Et si vous refusiez le classement ?</a></li><li><a href="#fondement">Le classement alpha bêta sigma a-t-il un fondement ?</a></li><li><a href="#choisir">Faut-il choisir une case ?</a></li><li><a href="#continuer">Par où continuer ?</a></li></ol></nav><div class="prose"><p>Vous avez tapé « alpha bêta sigma » parce qu’un classement vous a été tendu. Une vidéo, un test, une conversation qui a fini par vous placer. Le trio promet un ordre. Lisible. Stable. Vous y avez votre place, ou vous n’y en avez pas. Avant même que vous sachiez si cette place vous convient, le classement a déjà fait son travail : il vous a rendu situable.</p>
 <h2 id="quest-ce">Qu’est-ce que le classement alpha bêta sigma ?</h2>
 <p>Dans les récits qui circulent, l’alpha mène. Le bêta suit. Le sigma refuse les deux, et se tient à l’écart sans en avoir l’air de subir. Le portrait est simple. C’est pour cela qu’il circule. Il donne un nom à une fatigue que beaucoup connaissent : celle de devoir choisir un camp pour rester dans la pièce, ou de devoir quitter la pièce pour ne pas choisir.</p>
 <p>Ce portrait n’est pas une observation. Personne ne vous a suivi assez longtemps pour le signer. C’est un récit. Il prend des gestes — parler fort, se taire, partir tôt — et en fait des natures. Dès que les natures existent, on peut s’y mesurer. On peut échouer à être l’une. On peut revendiquer l’autre devant quelqu’un qui vous rangeait ailleurs. Le classement, qui semblait décrire le monde, ouvre des tiroirs. Vous en prenez un, ou on vous en tend un.</p>
